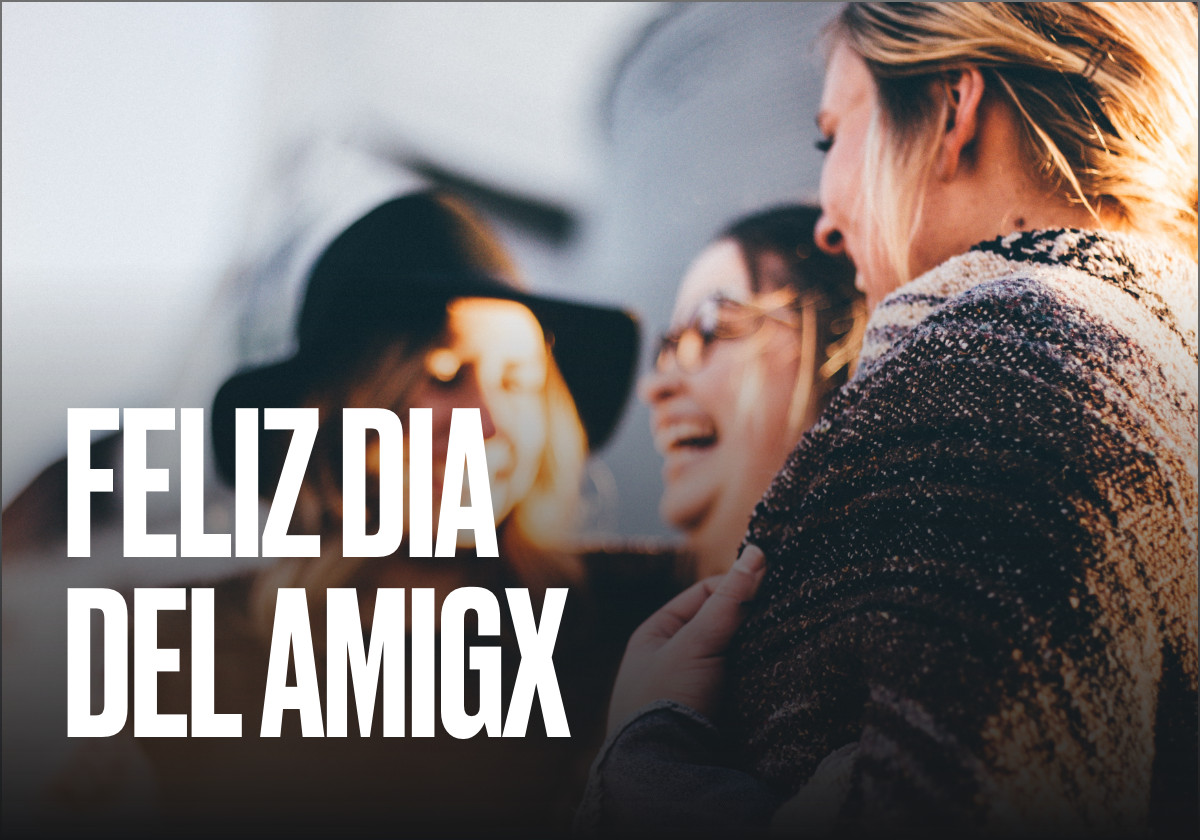
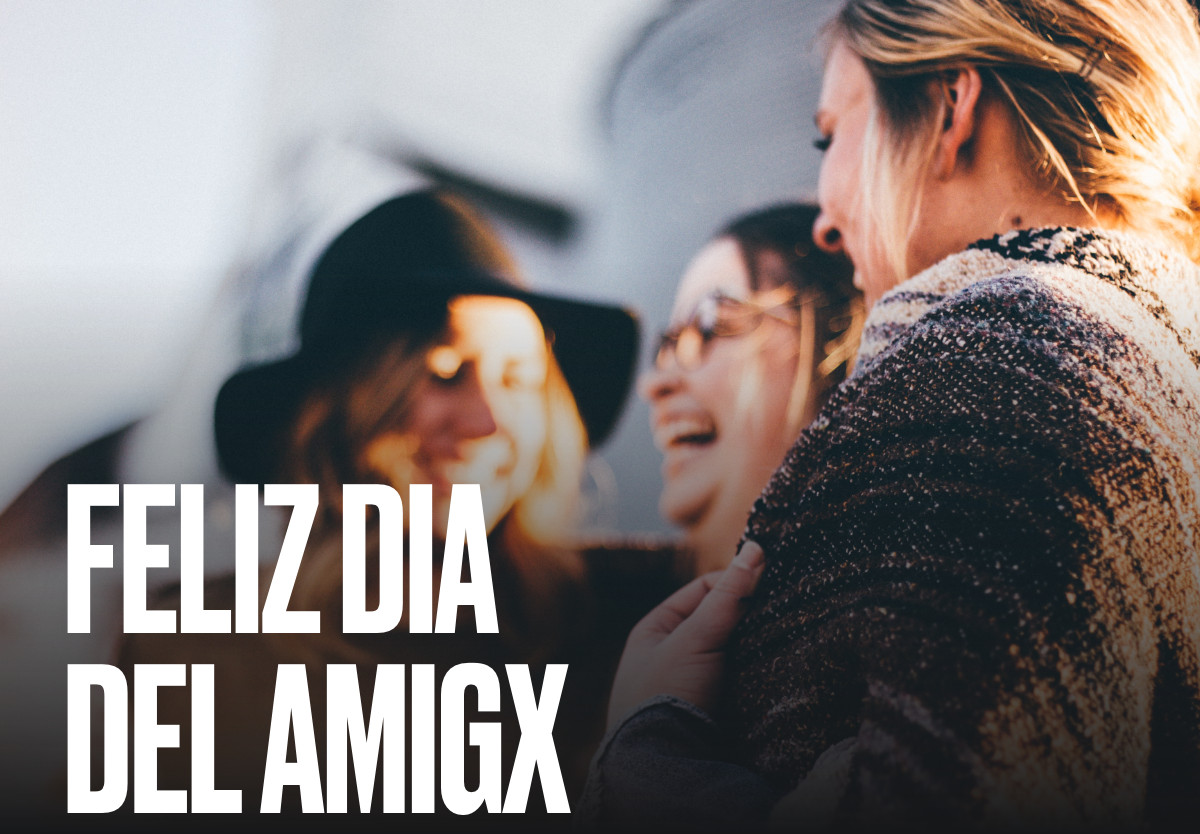
cambios en envio7 en b y c, invirtieron el lugar del boton

diff --git a/email7/email-b.html b/email7/email-b.html
@@ -122,20 +122,9 @@
                                     <img width="600" src="header-texto-b@2x.jpg" alt="Amigos auténticxs" style="width:100%;max-width:600px;" />
                                 </td>
                             </tr>
-            <!--CONTENIDO: TEXTO-->
-                            <tr>
-                                <td bgcolor="#161719" style="color: #FFFFFF; font-family: 'Montserrat', 'Montserrat', Helvetica, 'Arial', sans-serif; font-size: 16px; text-align: left;padding-left:20px;padding-right: 20px;padding-bottom: 50px;">
-                                    <p style="color: #FFFFFF; font-family: 'Montserrat', Helvetica, 'Arial', sans-serif; font-size: 12px;line-height: 18px; font-weight:normal;text-align: left;margin-bottom: 20px;">
-                                        Llego el día para celebrar! disfrutálo con la fórmula perfecta: Amigxs, música y tus Philip Morris!
-                                    </p>
-                                    <p style="color: #FFFFFF; font-family: 'Montserrat', Helvetica, 'Arial', sans-serif; font-size: 12px;line-height: 18px; font-weight:normal;text-align: left;">
-                                        Entrá en nuestra web, demostrá cuanto conoces a tus amigxs, sorprendelos con música y sumá chances para ver a una de las bandas de rock nacional más importante de país.
-                                    </p>
-                                </td>
-                            </tr>
         <!--CONTENIDO: CTA-->
                             <tr>
-                                <td bgcolor="#161719" align="center" style="text-align: center;padding-left:20px;padding-right:20px;padding-top:0px; padding-bottom: 50px;">
+                                <td bgcolor="#161719" align="center" style="text-align: center;padding-left:20px;padding-right:20px;padding-top:10px; padding-bottom: 40px;">
                                     
                                     <table width="264" align="left" cellpadding="0" cellspacing="0">
                                         <tr>
@@ -154,6 +143,17 @@
                                             </td>
                                         </tr>
                                     </table>
+                                </td>
+                            </tr>
+            <!--CONTENIDO: TEXTO-->
+                            <tr>
+                                <td bgcolor="#161719" style="color: #FFFFFF; font-family: 'Montserrat', 'Montserrat', Helvetica, 'Arial', sans-serif; font-size: 16px; text-align: left;padding-left:20px;padding-right: 20px;padding-bottom: 50px;">
+                                    <p style="color: #FFFFFF; font-family: 'Montserrat', Helvetica, 'Arial', sans-serif; font-size: 12px;line-height: 18px; font-weight:normal;text-align: left;margin-bottom: 20px;">
+                                        Llego el día para celebrar! disfrutálo con la fórmula perfecta: Amigxs, música y tus Philip Morris!
+                                    </p>
+                                    <p style="color: #FFFFFF; font-family: 'Montserrat', Helvetica, 'Arial', sans-serif; font-size: 12px;line-height: 18px; font-weight:normal;text-align: left;">
+                                        Entrá en nuestra web, demostrá cuanto conoces a tus amigxs, sorprendelos con música y sumá chances para ver a una de las bandas de rock nacional más importante de país.
+                                    </p>
                                 </td>
                             </tr>
             

diff --git a/email7/email-c.html b/email7/email-c.html
@@ -122,18 +122,7 @@
                                     <img width="600" src="header-texto-c@2x.jpg" alt="Amigos auténticxs" style="width:100%;max-width:600px;" />
                                 </td>
                             </tr>
-        <!--CONTENIDO: TEXTO-->
-                            <tr>
-                                <td bgcolor="#161719" style="color: #FFFFFF; font-family: 'Montserrat', 'Montserrat', Helvetica, 'Arial', sans-serif; font-size: 16px; text-align: left;padding-left:20px;padding-right: 20px;padding-bottom: 30px;padding-top: 30px;">
-                                    <p style="color: #FFFFFF; font-family: 'Montserrat', Helvetica, 'Arial', sans-serif; font-size: 12px;line-height: 18px; font-weight:normal;text-align: left;">
-                                        @usuario quiere celebrarlo!
-                                    </p>
-                                    <p style="color: #FFFFFF; font-family: 'Montserrat', Helvetica, 'Arial', sans-serif; font-size: 12px;line-height: 18px; font-weight:normal;text-align: left;">
-                                        Ingresá en nuestra web, responde una pregunta y conseguí la musica que más te gusta*!
-                                    </p>
-                                </td>
-                            </tr>
-        <!--CONTENIDO: CTA-->
+                <!--CONTENIDO: CTA-->
                             <tr>
                                 <td bgcolor="#161719" align="center" style="text-align: center;padding-left:20px;padding-right:20px;padding-top:0px; padding-bottom: 20px;">
                                     
@@ -156,6 +145,18 @@
                                     </table>
                                 </td>
                             </tr>
+        <!--CONTENIDO: TEXTO-->
+                            <tr>
+                                <td bgcolor="#161719" style="color: #FFFFFF; font-family: 'Montserrat', 'Montserrat', Helvetica, 'Arial', sans-serif; font-size: 16px; text-align: left;padding-left:20px;padding-right: 20px;padding-bottom: 20px;padding-top: 10px;">
+                                    <p style="color: #FFFFFF; font-family: 'Montserrat', Helvetica, 'Arial', sans-serif; font-size: 12px;line-height: 18px; font-weight:normal;text-align: left;">
+                                        @usuario quiere celebrarlo!
+                                    </p>
+                                    <p style="color: #FFFFFF; font-family: 'Montserrat', Helvetica, 'Arial', sans-serif; font-size: 12px;line-height: 18px; font-weight:normal;text-align: left;">
+                                        Ingresá en nuestra web, responde una pregunta y conseguí la musica que más te gusta*!
+                                    </p>
+                                </td>
+                            </tr>
+        
             <!--CONTENIDO: TEXTO-->
                             <tr>
                                 <td bgcolor="#161719" style="color: #FFFFFF; font-family: 'Montserrat', 'Montserrat', Helvetica, 'Arial', sans-serif; font-size: 16px; text-align: left;padding-left:20px;padding-right: 20px;padding-bottom: 20px;">
